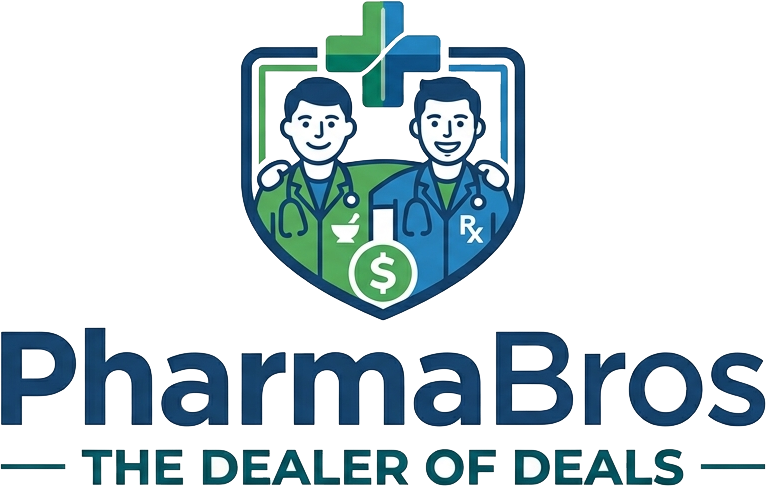
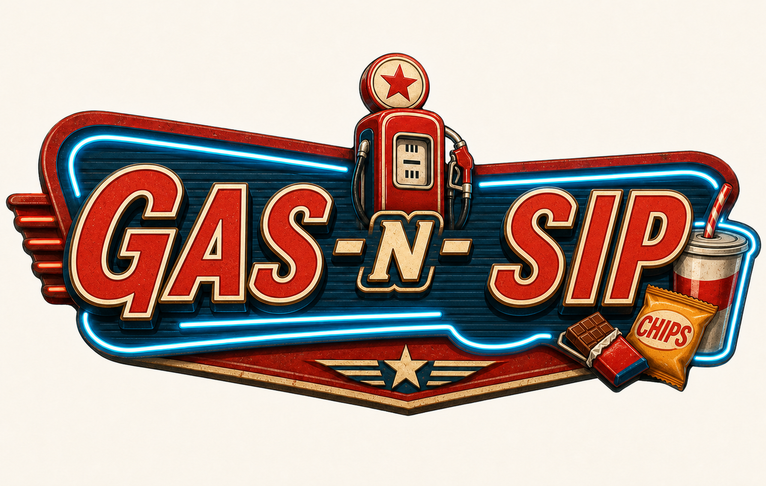
Road realism: painted-line wear + patchy asphalt (slices 1 & 2)
Slice 1 (lane lines): per-dash paint wear (faded grimy grey), width
jitter, ~6% missing/scuffed dashes, and sun-faded double-yellow — kills
the uniform 'digital strip' look.
Slice 2 (asphalt): stable per-segment tone jitter (no flat sheet),
occasional darker repair patches, polished wheel-path bands, and
transverse tar seams every ~10 segments. Detail gated to near land
segments (w2>8) so far road stays cheap; all driven by cached
per-segment noise so nothing shimmers.

diff --git a/src/road/Road.js b/src/road/Road.js
@@ -2804,6 +2804,25 @@ export class Road {
     // the segment lands inside the LANE_DASH_LEN window of the cycle.
     const dashCycle = LANE_DASH_LEN + LANE_DASH_GAP;
     let   dashOn    = (seg.index % dashCycle) < LANE_DASH_LEN;
+
+    // ── Asphalt realism: stable per-segment procedural noise (cached once
+    // per segment so it never shimmers frame-to-frame).  _sn* ∈ [0,1). ──
+    if (seg._sn === undefined) {
+      const hash = (k) => {
+        const x = Math.sin((seg.index * 7.13 + k * 91.7) * 12.9898) * 43758.5453;
+        return x - Math.floor(x);
+      };
+      seg._sn  = hash(1);   // base tone jitter
+      seg._sn2 = hash(2);   // patch roll
+      seg._sn3 = hash(3);   // wear roll
+    }
+    // Tone jitter: nudge the asphalt ±5% lighter/darker per segment so the
+    // surface reads as real pavement, not a flat painted sheet.
+    road = lerpColor(road, seg._sn > 0.5 ? 0xFFFFFF : 0x000000, Math.abs(seg._sn - 0.5) * 0.10);
+    // Rare darker repair patch spanning a short run of segments (the
+    // "they filled a pothole" look) — gated so it's occasional.
+    const _isPatch = seg._sn2 < 0.05;
+    if (_isPatch) road = lerpColor(road, 0x000000, 0.16);
     // ── Snow blanket: dissolve the road / rumble / grass toward white
     // and suppress lane markings entirely.  Intensity ramps with the
     // weather envelope so the transition into / out of the snow zone is
@@ -3274,6 +3293,28 @@ export class Road {
       x2 - w2, fy, x2 + w2, fy,
       x1 + w1, ny, x1 - w1, ny);
 
+    // ── Asphalt detail (near land segments only, so far road stays clean
+    // and cheap): polished wheel-path bands + transverse tar seams. ──────
+    if (!isGhost && w2 > 8 && !seg.tunnel && !seg.water && !seg.bridge && !_isPatch) {
+      const wheelCol = lerpColor(road, 0x000000, 0.12);   // tire-polished, darker
+      // Two wheel-track bands per carriageway (±0.42w center, ~0.10w wide).
+      for (const s of (segLanes >= 2 ? [-0.42, 0.42] : [0])) {
+        const bw2 = w2 * 0.10, bw1 = w1 * 0.10;
+        const bc2 = x2 + s * w2, bc1 = x1 + s * w1;
+        fillTrap(surfaceG, wheelCol,
+          bc2 - bw2, fy, bc2 + bw2, fy,
+          bc1 + bw1, ny, bc1 - bw1, ny);
+      }
+      // Transverse expansion joint every ~10 segments — a thin dark seam
+      // across the full road at the segment's near edge.
+      if (seg.index % 10 === 0) {
+        const seamH = Math.max(1, Math.min(3, segH * 0.5));
+        fillTrap(surfaceG, lerpColor(road, 0x000000, 0.35),
+          x1 - w1, ny - seamH, x1 + w1, ny - seamH,
+          x1 + w1, ny, x1 - w1, ny);
+      }
+    }
+
     // ── Exit ramp diverging right ─────────────────────────────────────
     // RouteData.js tags segments leading into a rest stop with
     // `rampStrength` ∈ (0,1].  We paint a paved trapezoid that grows
@@ -3380,27 +3421,41 @@ export class Road {
     // the white dashes were showing through the gap between the two
     // yellow lines.
     if (dashOn) {
+      // Per-DASH paint wear (stable across the segments that make up one
+      // dash): faded brightness, width jitter, and the odd near-gone dash —
+      // so lane paint reads as real striping, not a uniform digital strip.
+      const _fr    = (x) => x - Math.floor(x);
+      const dashId = Math.floor(seg.index / dashCycle);
+      const dw     = _fr(Math.sin(dashId * 78.233) * 43758.5453);   // [0,1) per dash
+      const gone   = dw > 0.94;                                     // ~6% missing/scuffed
+      // Fade fresh cream toward a grimy, sun-bleached grey by up to ~50%.
+      const wornLane = lerpColor(laneCol, 0x8C8778, dw * 0.5);
+      const jw2 = lw2 * (0.82 + dw * 0.32);
+      const jw1 = lw1 * (0.82 + dw * 0.32);
       const skipLane = (segLanes % 2 === 0) ? segLanes / 2 : -1;
-      for (let lane = 1; lane < segLanes; lane++) {
+      if (!gone) for (let lane = 1; lane < segLanes; lane++) {
         if (lane === skipLane) continue;
         const lx1 = x1 + (lane / segLanes) * 2 * w1 - w1;
         const lx2 = x2 + (lane / segLanes) * 2 * w2 - w2;
-        fillTrap(surfaceG, laneCol,
-          lx2 - lw2, fy, lx2 + lw2, fy,
-          lx1 + lw1, ny, lx1 - lw1, ny);
+        fillTrap(surfaceG, wornLane,
+          lx2 - jw2, fy, lx2 + jw2, fy,
+          lx1 + jw1, ny, lx1 - jw1, ny);
       }
     }
 
-    // Double solid yellow center line — only on multi-lane roads
+    // Double solid yellow center line — only on multi-lane roads.  Worn
+    // per-segment toward a duller, sun-faded yellow so it isn't a flat
+    // fluorescent stripe.
     if (segLanes >= 2) {
       const clw1 = Math.max(1, Math.round(lw1 * 0.55));
       const clw2 = Math.max(1, Math.round(lw2 * 0.55));
       const gap1 = lw1 * 1.1;
       const gap2 = lw2 * 1.1;
-      fillTrap(surfaceG, 0xFFEE00,
+      const wornYellow = lerpColor(0xFFEE00, 0xB8A63A, (seg._sn3 ?? 0) * 0.45);
+      fillTrap(surfaceG, wornYellow,
         x2 - gap2 - clw2, fy, x2 - gap2,       fy,
         x1 - gap1,        ny, x1 - gap1 - clw1, ny);
-      fillTrap(surfaceG, 0xFFEE00,
+      fillTrap(surfaceG, wornYellow,
         x2 + gap2,        fy, x2 + gap2 + clw2, fy,
         x1 + gap1 + clw1, ny, x1 + gap1,        ny);
     }